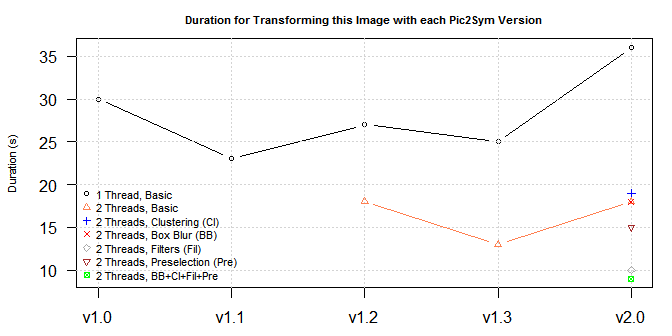
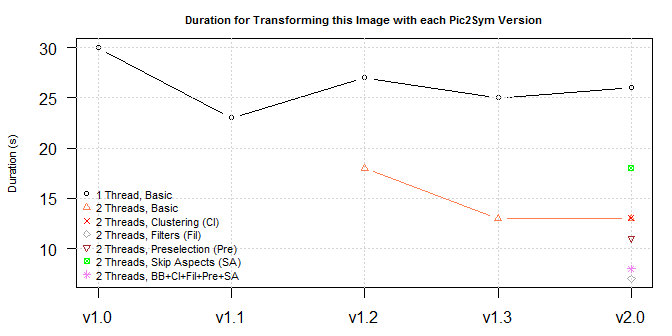
doc: Updated results page

diff --git a/doc/pages/results/results.md b/doc/pages/results/results.md
@@ -149,11 +149,11 @@ The following cases:
 
 ------------------------------------------------------------------------
 
-Filtering shrank the font family *Osaka Regular Unicode* from 14963 symbols to 7889.<br> So, 27540 patches to approximate using 7889 symbols requires in *v2.0* 1607s (around 27 minutes):<br> [![](Osaka_v2.0.jpg)](../../examples/6_osaka_unicode_Regular_UNICODE_10_0_2.5_0.25_1_0.75_0.1_0.2_0.2_0.1_0_2040_1350.jpg)<br> Here the *Hybrid Result* mode was not used, to be able to inspect the result better.<br> The amount of required memory was around 330MB.
+Filtering shrank the font family *Osaka Regular Unicode* from 14963 symbols to less than 7900.<br> So, 27540 patches to approximate using around 7900 symbols require 1526s (around 26 minutes) in *v2.0* (better than in the screenshot below):<br> [![](Osaka_v2.0.jpg)](../../examples/6_osaka_unicode_Regular_UNICODE_10_0_2.5_0.25_1_0.75_0.1_0.2_0.2_0.1_0_2040_1350.jpg)<br> Here the *Hybrid Result* mode was not used, to be able to inspect the result better.<br> The amount of required memory was around 330MB.
 
 ------------------------------------------------------------------------
 
-Filtering shrank the font family *DengXian Regular Unicode* from 28541 symbols to 7248.<br> So, 27540 patches to approximate using 7248 symbols requires in *v2.0* 1299s (around 22 minutes):<br> [![](DengXian_v2.0.jpg)](../../examples/6_DengXian_Regular_UNICODE_10_1_2.5_0.25_1_0.75_0.1_0.2_0.2_0.1_0_2040_1350.jpg)<br> This time, the *Hybrid Result* mode was enabled.
+Filtering shrank the font family *DengXian Regular Unicode* from 28541 symbols to less than 7250.<br> So, 27540 patches to approximate using around 7250 symbols require 1230s (around 21 minutes) in *v2.0* (better than in the screenshot below):<br> [![](DengXian_v2.0.jpg)](../../examples/6_DengXian_Regular_UNICODE_10_1_2.5_0.25_1_0.75_0.1_0.2_0.2_0.1_0_2040_1350.jpg)<br> This time, the *Hybrid Result* mode was enabled.
 
 ------------------------------------------------------------------------
 
@@ -187,7 +187,7 @@ Cases **to avoid**:
     -   are *italic* when there are many regions with textures tilted differently
     -   contain *glyphs filling almost solid their square* (such symbols are very likely to approximate ambiguous patches and ***they appear rigid, despite they are correctly selected***)
 
-**Hybrid Results** mode, **Symbols Filtering, Clustering and Preselection** are now able to tackle most of these problematic contexts.
+**Hybrid Results** mode, **Symbols Filtering, Clustering, Preselection** and **Skipping Matching Aspects** are now able to tackle most of these problematic contexts.
 
 For optimal configuration of the application, please refer to the [Control Panel](../CtrlPanel/CtrlPanel.md) and [Appendix](../appendix/appendix.md) materials.
 
